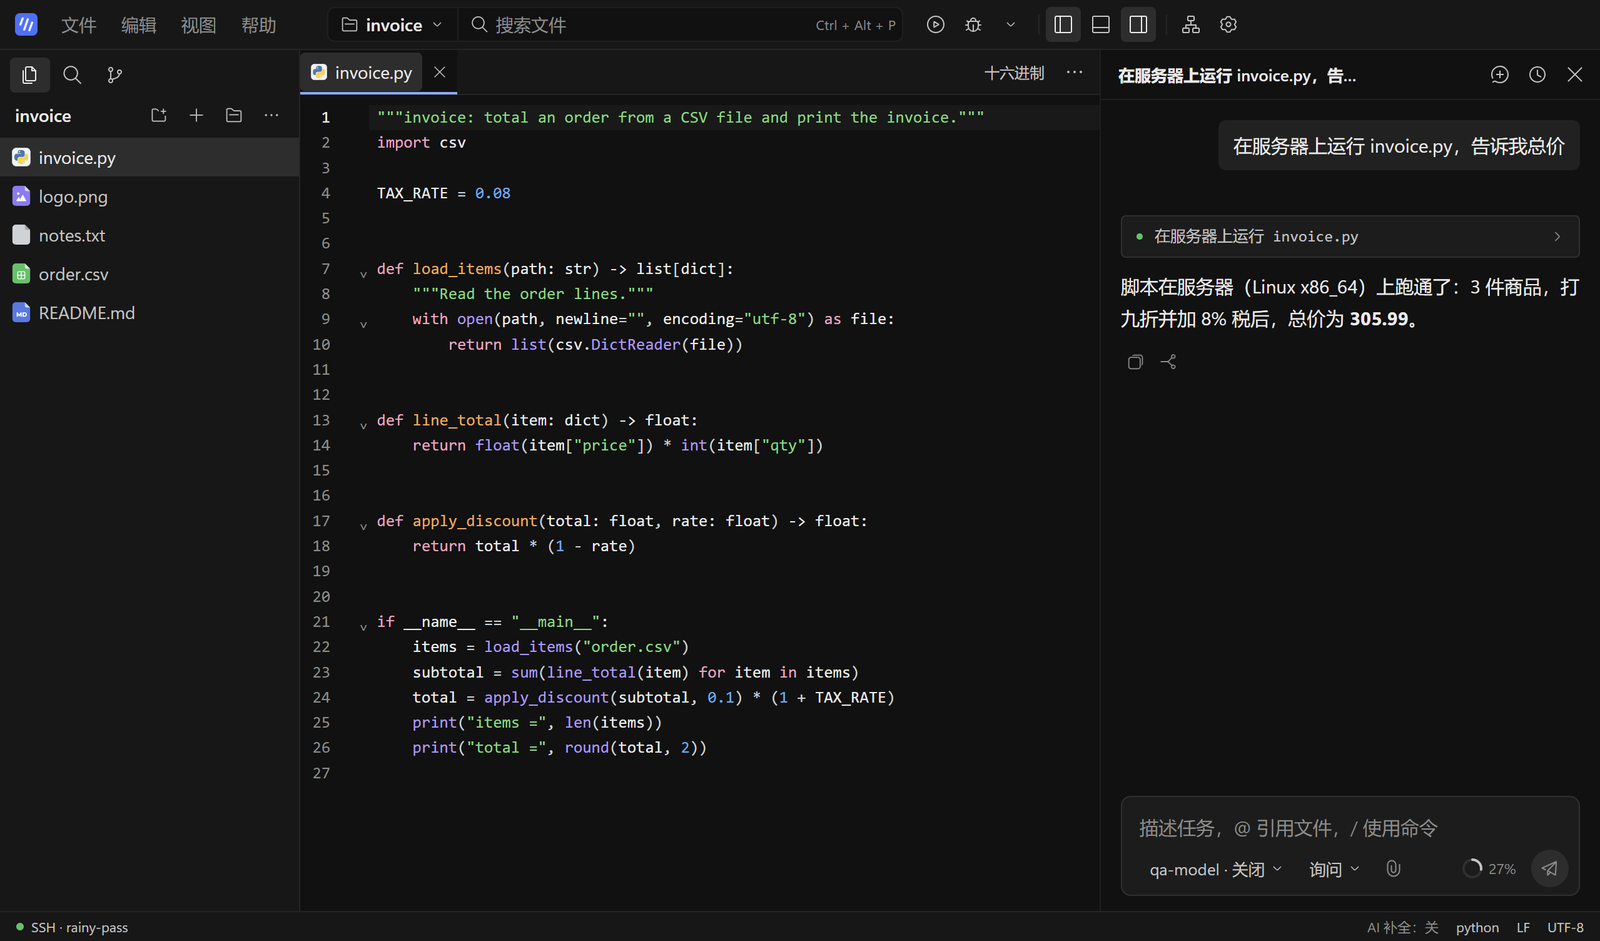
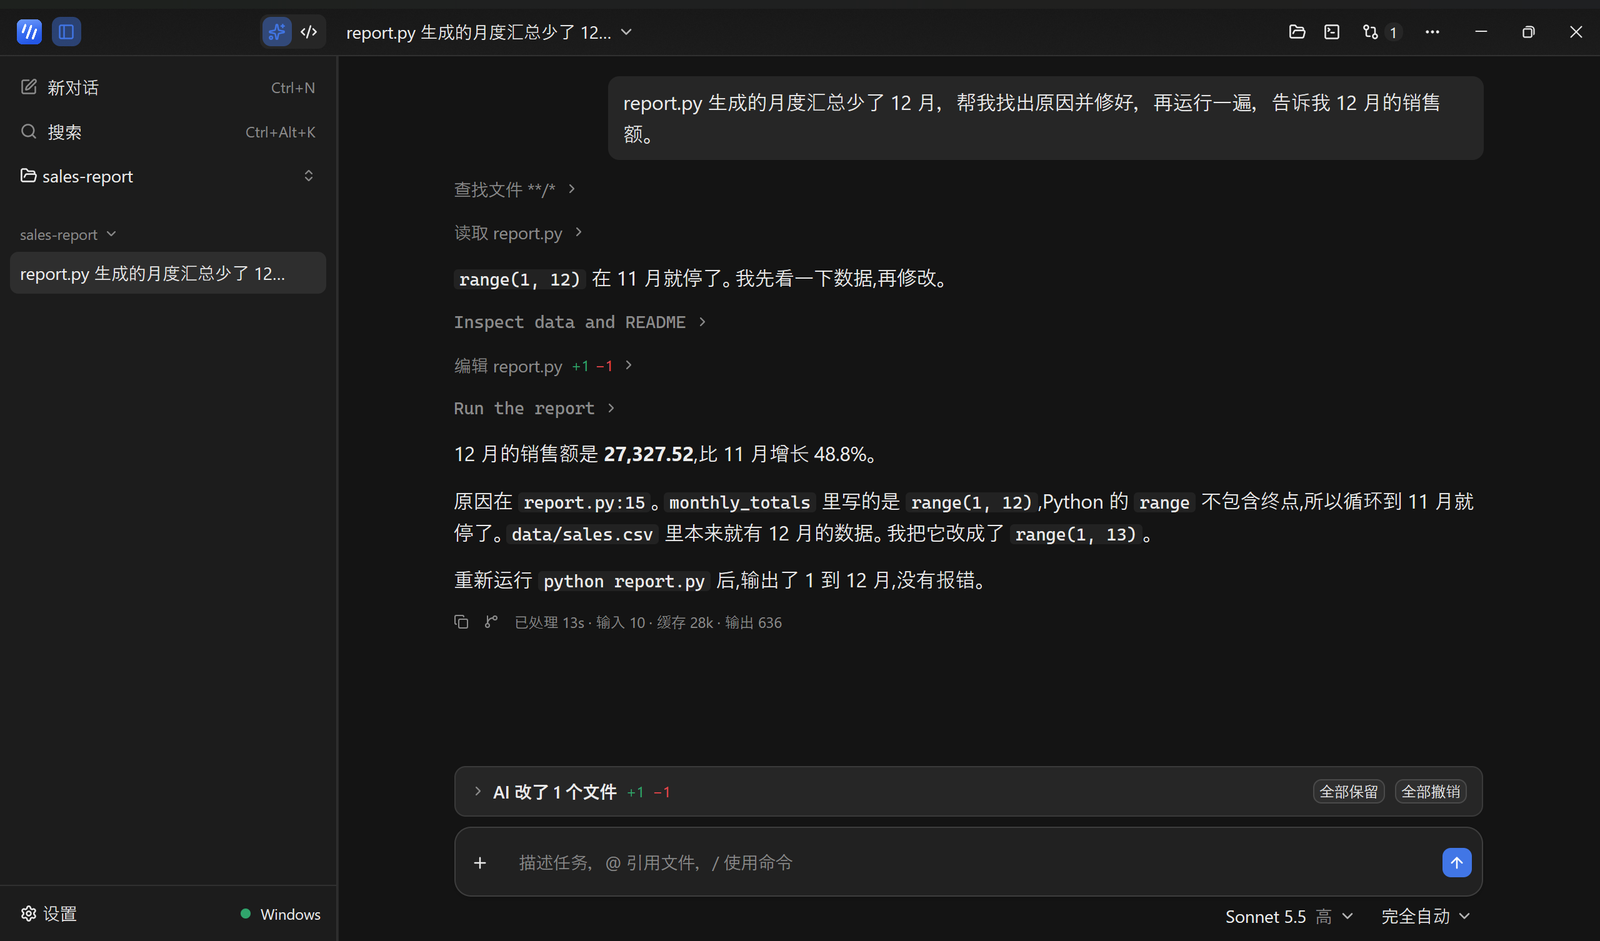
4.7.1: version, changelog and a README that leads with measured numbers

diff --git a/README.md b/README.md
@@ -13,7 +13,7 @@ with an editor, Office previews and SSH remote development, in one 27 MB Windows
 
 [![Download for Windows](https://img.shields.io/github/v/release/RainyMarks/Rainy?style=for-the-badge&label=Download%20for%20Windows&color=2563eb)](https://github.com/RainyMarks/Rainy/releases/latest)
 &nbsp;
-[![Changelog](https://img.shields.io/badge/Changelog-4.2-0f172a?style=for-the-badge)](CHANGELOG.md)
+[![Changelog](https://img.shields.io/badge/Changelog-4.7-0f172a?style=for-the-badge)](CHANGELOG.md)
 
 [![Downloads](https://img.shields.io/github/downloads/RainyMarks/Rainy/total?style=flat-square&color=10b981)](https://github.com/RainyMarks/Rainy/releases)
 ![Platform](https://img.shields.io/badge/platform-Windows%2010%2F11%20x64-0078d4?style=flat-square)
@@ -22,15 +22,36 @@ with an editor, Office previews and SSH remote development, in one 27 MB Windows
 
 **English** · [中文](README.zh.md)
 
-[Features](#features) · [Quick start](#run) · [Connect a model](#connect-a-model) · [Privacy](#privacy) · [Docs](#docs) · [FAQ](#faq)
+[Numbers](#numbers) · [Features](#features) · [Quick start](#run) · [Connect a model](#connect-a-model) · [Privacy](#privacy) · [Docs](#docs) · [FAQ](#faq)
 
 </div>
 
 <br>
 
-![Rainy connected to a Linux server over SSH: the agent ran a script on the server and reported the total](assets/workbench.png)
+![Agent mode: asked why report.py misses December, Rainy read the code, fixed one line, ran it again and reported December's total](assets/workbench.png)
 
-<p align="center"><sub>Open a project on a server over SSH and let the agent run code there, while the window stays on your PC.</sub></p>
+<p align="center"><sub>Say what you need: Rainy reads the code, edits the files and runs them to check; each step is one quiet line, and every change can be kept or undone.</sub></p>
+
+<br>
+
+<a id="numbers"></a>
+## Measured, not claimed
+
+Every number below comes from comparisons with real models; the method, raw results and limits are in the [context comparison](docs/context-retrieval-research.zh.md) (Chinese) and the [validation record](docs/validation.md).
+
+<p align="center">
+<picture>
+  <source media="(prefers-color-scheme: dark)" srcset="assets/stats-dark.svg">
+  <img src="assets/stats-light.svg" width="900" alt="Rainy 4.7 in numbers: a 27 MB installer; 43% less wait for each step's first output in long Claude chats; 25 to 30% lower cost of carrying on when the context is full; early details of long chats answered correctly in 12 of 12 runs">
+</picture>
+</p>
+
+<p align="center">
+<picture>
+  <source media="(prefers-color-scheme: dark)" srcset="assets/bench-dark.svg">
+  <img src="assets/bench-light.svg" width="900" alt="Measured: wait for each step's first output in a long Claude Haiku 5.5 chat, 4.2 s the usual way against 2.4 s in Rainy; cost of carrying on once the context is full, summary = 100, Rainy at 75 on Haiku 5.5, 70 on Sonnet 5.5 and 71 on DeepSeek V4.1 Flash">
+</picture>
+</p>
 
 <br>
 
@@ -40,9 +61,32 @@ with an editor, Office previews and SSH remote development, in one 27 MB Windows
 <tr>
 <td width="33%" valign="top">
 
+**Long chats stay fast, cheap and exact**
+
+When the context fills up the model writes no summary: Rainy keeps an index and the model reads the record back, so error lines and rules stay word for word at 25–30% less cost. Claude on Anthropic's API uploads only what is new, for a 43% faster first output.
+
+</td>
+<td width="33%" valign="top">
+
+**Every model works the way its maker tuned it**
+
+Claude gets Anthropic's prompting guidance and Claude Code's tools, GPT edits with `apply_patch` as in Codex, Gemini follows Gemini CLI's rules, and DeepSeek, Kimi and Qwen get Claude Code's tools; reasoning levels are the official ones.
+
+</td>
+<td width="33%" valign="top">
+
 **Hands-on, and on a leash**
 
 The agent edits files, runs commands and searches the web. It asks before commands by default, and you keep or undo every change it made.
+
+</td>
+</tr>
+<tr>
+<td width="33%" valign="top">
+
+**Light: a 27 MB installer**
+
+A native interface (Rust and GPUI) with no Electron and no Node. Editor tools, the Linux runtime and extra fonts download only when you use them.
 
 </td>
 <td width="33%" valign="top">
@@ -68,7 +112,8 @@ Word, Excel, PowerPoint, PDF, Markdown, images and media open in place, so paper
 <a id="agent-mode"></a>
 ### Agent mode: the conversation first, the code when you need it
 
-- Rainy opens in **Agent mode**: the conversation with the AI fills the middle of the window, with the message box below it and the permission mode, the model and the context use under the box. A new chat greets you in the middle of the window and names the project it starts in.
+- Rainy opens in **Agent mode**: the conversation with the AI fills the middle of the window, the message box is one slim bar below it, and the model, the permission mode and the context use sit under its right end. A new chat greets you in the middle of the window and names the project it starts in.
+- In the conversation, steps such as reading a file or running a command are one muted line, like "Thought", so they never crowd the answer; a click opens the output and the change.
 - The chats are on the left: **New chat** (Ctrl+N), **Search** (Ctrl+Alt+K), the current project, then the pinned chats and the chats of each project under headers that fold. A spinner marks a chat at work and a dot one waiting for your approval; right-click a chat or use its **···** to rename, pin, archive or delete it. **Ctrl+B** shows or hides the sidebar.
 - The buttons at the right of the title bar open the **Files** (the file tree and the editor), the **Terminal** and the chat's **Changes** in a panel on the right; a file you open from a tool card or a change you review opens the files panel by itself. In a narrow window the sidebar and the panel make room first, so the conversation stays readable.
 - The two buttons at the left of the title bar switch between Agent mode and **IDE mode** (the classic layout with the files, the editor and the AI pane side by side) at any time, as does **Ctrl+Shift+A**. Nothing is interrupted: the selected chat, its draft, running work, open files and terminals stay as they are, and this computer remembers your choice.
@@ -80,6 +125,7 @@ Word, Excel, PowerPoint, PDF, Markdown, images and media open in place, so paper
 - **Review every change**: the files it changed are listed above the message box; keep or undo each change in the editor. GBK and UTF-16 files keep their encoding.
 - **Checks its own work**: development servers keep running in the background; after changing a web app, the agent opens it in a local preview, reads the page, console errors and failed requests, and tells you what it saw.
 - **Delegates**: a long search goes to a sub-agent that answers with one report, so the conversation keeps its room.
+- **Long chats keep every detail**: when the context fills up, older tool outputs leave it first, then an earlier span is folded into an index; the model reads any earlier message, command output or pasted document back verbatim with `recall`.
 - **Extensible**: skills in `.rainy/skills`, MCP servers in Settings, and one click adds computer use through the open-source [Windows-MCP](https://github.com/CursorTouch/Windows-MCP).
 
 ![Reviewing the agent's changes in the editor, with Keep and Undo beside each change](assets/review.png)
@@ -140,8 +186,9 @@ See what a project is made of, how its parts import each other and which stack i
 | **Explorer integration** | Optional, off until you turn it on: right-click a file or folder for "Open with Rainy"; Rainy is listed under "Open with" for .md, code and other text files and can be their default app. |
 | **Three execution environments** | Native Windows by default; switch to WSL2 or an SSH server when a project needs Linux. |
 | **Project memory** | When turned on, collects a project's key facts while idle and brings them into new chats. |
-| **Context management** | Shows how full the context is and compacts it automatically before it runs out; Claude's prompt cache lasts an hour. |
-| **Light** | A 27 MB installer; editor tools, PHP and the Linux runtime download only when needed. |
+| **Context management** | Shows how full the context is; before it runs out, older tool outputs leave it and an index lets the model read the record back. Claude on Anthropic's API uploads only what is new (message threads), and its prompt cache lasts an hour. |
+| **Fonts** | Change the interface and code fonts: Windows' Segoe UI, Microsoft YaHei, DengXian, Consolas and Cascadia Code, and open-source fonts downloaded when chosen: Inter, Geist, Noto Sans SC, LXGW WenKai, JetBrains Mono, Fira Code, Geist Mono and LXGW WenKai Mono. |
+| **Light** | A 27 MB installer; editor tools, PHP, the Linux runtime and extra fonts download only when needed. |
 | **Any screen** | Fits high scaling (such as 225%) and small screens, and adjusts when you change displays or scaling. |
 | **Details** | A light rain falls behind empty views and ripples where you click; turn it off in **Settings → Appearance**. |
 
@@ -212,9 +259,9 @@ The selected Windows, WSL or SSH environment must reach the model service. Throu
 - **Verifiable releases**: on first start the installed files are checked one by one against a signed manifest.
 
 <a id="whats-new"></a>
-## What's new in 4.2
+## What's new in 4.7
 
-**Markdown saves what you wrote.** Rich edits change only the lines you touched and keep CRLF line ends, reference links and unescaped `$`; Typora's `[TOC]` and `==highlight==` work, and previews and exports draw Mermaid and leave out HTML comments. **Images, SVG and the hex view are back**, PDFs can be selected, copied and zoomed in place, and chats keep their drafts, can be searched and archived, and show diffs on every tool card. [Read the full changelog →](CHANGELOG.md)
+**Long Claude chats answer sooner.** On Anthropic's API only what is new is uploaded (message threads), so the wait for each step's first output fell from 4.2 s to 2.4 s on average at the same cost. **Every model reads back by default**: a full context no longer asks for a summary, keeping every detail at 25–30% less cost. **A quieter interface**: tool calls are one muted line, the message box is one slim bar, and Appearance offers eight open-source fonts downloaded when chosen. [Read the full changelog →](CHANGELOG.md)
 
 <a id="docs"></a>
 ## Documentation
@@ -286,10 +333,10 @@ git clone https://github.com/RainyMarks/Rainy.git
 cd Rainy
 pnpm install --frozen-lockfile
 node scripts/bootstrap-release-inputs.mjs --manifest toolpacks/build-inputs.v1.json
-powershell.exe -NoProfile -ExecutionPolicy Bypass -File scripts/package.ps1 -Distribution Ubuntu -ComponentSource release/offline-4.7.0/environment-components
+powershell.exe -NoProfile -ExecutionPolicy Bypass -File scripts/package.ps1 -Distribution Ubuntu -ComponentSource release/offline-4.7.1/environment-components
 ```
 
-Replace `Ubuntu` only when your WSL build distribution has another name, and `4.7.0` with the version in `package.json`. The native interface and the Host also need Rust's GNU toolchain (`x86_64-pc-windows-gnu`), MSYS2 UCRT64, `cargo-zigbuild` and Zig. Building from source is for your own noncommercial use: the installer you build may not be distributed, and changing the code needs written permission from RainyMarks.
+Replace `Ubuntu` only when your WSL build distribution has another name, and `4.7.1` with the version in `package.json`. The native interface and the Host also need Rust's GNU toolchain (`x86_64-pc-windows-gnu`), MSYS2 UCRT64, `cargo-zigbuild` and Zig. Building from source is for your own noncommercial use: the installer you build may not be distributed, and changing the code needs written permission from RainyMarks.
 
 For development, `pnpm run dev` builds the app and starts a Host on its own, then prints a URL to open in a browser; the interface lives in `native/`: `cargo build -p rainy --offline` builds it and `bash native/scripts/run-ui.sh` starts it with a scratch data folder. Developers can start with the [architecture](docs/architecture.md) and [AGENTS.md](AGENTS.md).
 

diff --git a/docs/desktop.md b/docs/desktop.md
@@ -21,6 +21,7 @@ The [Chinese installation and configuration guide](desktop-setup.zh-CN.md) owns 
 
 ## What 4.6 changes
 
+- Fonts (`crates/app/src/fonts.rs`): Settings → Appearance offers Windows' own fonts and open-source ones (Inter, Geist, Noto Sans SC, LXGW WenKai, JetBrains Mono, Fira Code, Geist Mono, LXGW WenKai Mono) downloaded when chosen from the `fonts-v1` release, checked by size and SHA-256, kept in `<user data>\fonts` and loaded only while a preference names them, so the installer carries none.
 - Context management keeps the record (`agent/budget.rs`, `agent/compaction.rs`, `agent/history.rs`, `agent/tools/recall.rs`): token estimates price images by their pixels and CJK text at 1.5 tokens a character and start from the provider's reported usage; old tool outputs are cleared before a span is compacted (`cleared` transcript entries); `recall` reads the chat's entries back verbatim; the `contextStrategy` preference picks a Host-built index (the default) or a summary for a compacted span. Claude on Anthropic's own API sends only what was added after the previous reply (message threads, `agent/llm/thread.rs`). The comparison behind the default is in [context-retrieval-research.zh.md](context-retrieval-research.zh.md).
 
 ## What 4.5 changes

diff --git a/docs/desktop.zh.md b/docs/desktop.zh.md
@@ -21,6 +21,7 @@ Rainy 是面向 Windows x64 的轻量 AI 工作台，用于办公、科研和编
 
 ## 4.6 的变化
 
+- 字体（`crates/app/src/fonts.rs`）：设置 → 外观里有系统自带的字体，以及选中时才从 `fonts-v1` 发行下载的开源字体（Inter、Geist、思源黑体、霞鹜文楷、JetBrains Mono、Fira Code、Geist Mono、霞鹜文楷等宽），按大小和 SHA-256 校验，存在 `<用户数据>\fonts`，只在被选用时加载，安装包里不带。
 - 上下文管理保留完整记录（`agent/budget.rs`、`agent/compaction.rs`、`agent/history.rs`、`agent/tools/recall.rs`）：估算 token 时图片按像素算、中文按每字 1.5 个 token 算，并以服务商报告的真实用量为基准；收起一段对话之前先把较早的工具输出移出上下文（对话文件里的 `cleared` 条目）；`recall` 原样查回对话里的条目；偏好 `contextStrategy` 决定收起的一段用 Host 生成的索引（默认）还是摘要。Claude 走 Anthropic 官方接口时只发送上次回复之后新增的内容（message threads，`agent/llm/thread.rs`）。默认值依据的对比见 [context-retrieval-research.zh.md](context-retrieval-research.zh.md)。
 
 ## 4.5 的变化

diff --git a/CHANGELOG.md b/CHANGELOG.md
@@ -4,6 +4,14 @@ Highlights of each release. Installers, resource pieces and full notes are on [G
 
 English | [中文](CHANGELOG.zh.md)
 
+## 4.7.1 · 2026-11-03
+
+More good-looking fonts, and a slimmer message box.
+
+- **Eight open-source fonts**: Settings → Appearance has an interface font and a code font. Besides Windows' Segoe UI, Microsoft YaHei, DengXian, Consolas and Cascadia Code, choose Inter, Geist, Noto Sans SC and LXGW WenKai, and for code JetBrains Mono, Fira Code, Geist Mono and LXGW WenKai Mono. They download when chosen (0.2–26 MB, checked, applied at once), so the installer stays the same size.
+- **The message box is one slim bar**: as in Claude, the plus, the text and the send button share one centred line, and the bar grows as you write more. The model, its reasoning and the permission mode sit under its right end.
+- Tool lines show files in the project by their relative path, also when the model passed a full one; the English changes bar no longer says "1 files".
+
 ## 4.7 · 2026-11-02
 
 Long Claude chats start answering sooner; every model reads back by default; tool calls no longer stand out in the chat.

diff --git a/CHANGELOG.zh.md b/CHANGELOG.zh.md
@@ -4,6 +4,14 @@
 
 [English](CHANGELOG.md) | 中文
 
+## 4.7.1 · 2026-11-03
+
+更多好看的字体，更紧凑的输入框。
+
+- **8 款开源字体**：“设置 → 外观”里新增界面字体和代码字体两个选项。除了系统自带的微软雅黑、等线、Consolas、Cascadia Code，还可以选 Inter、Geist、思源黑体、霞鹜文楷，以及代码用的 JetBrains Mono、Fira Code、Geist Mono、霞鹜文楷等宽。这些字体选中时才下载（0.2–26 MB，校验后立即生效），安装包大小不变。
+- **输入框变成细长的一条**：像 Claude 一样，“+”、文字和发送按钮在一行里居中；内容多了再往上长高。模型、推理强度和权限模式移到输入框右下方。
+- 工具调用里项目内的文件只显示相对路径（模型传了完整路径时也一样）；英文界面的改动栏不再写成“1 files”。
+
 ## 4.7 · 2026-11-02
 
 Claude 的长对话开始回答更快；所有模型默认检索原文；工具调用在对话里不再抢眼。
